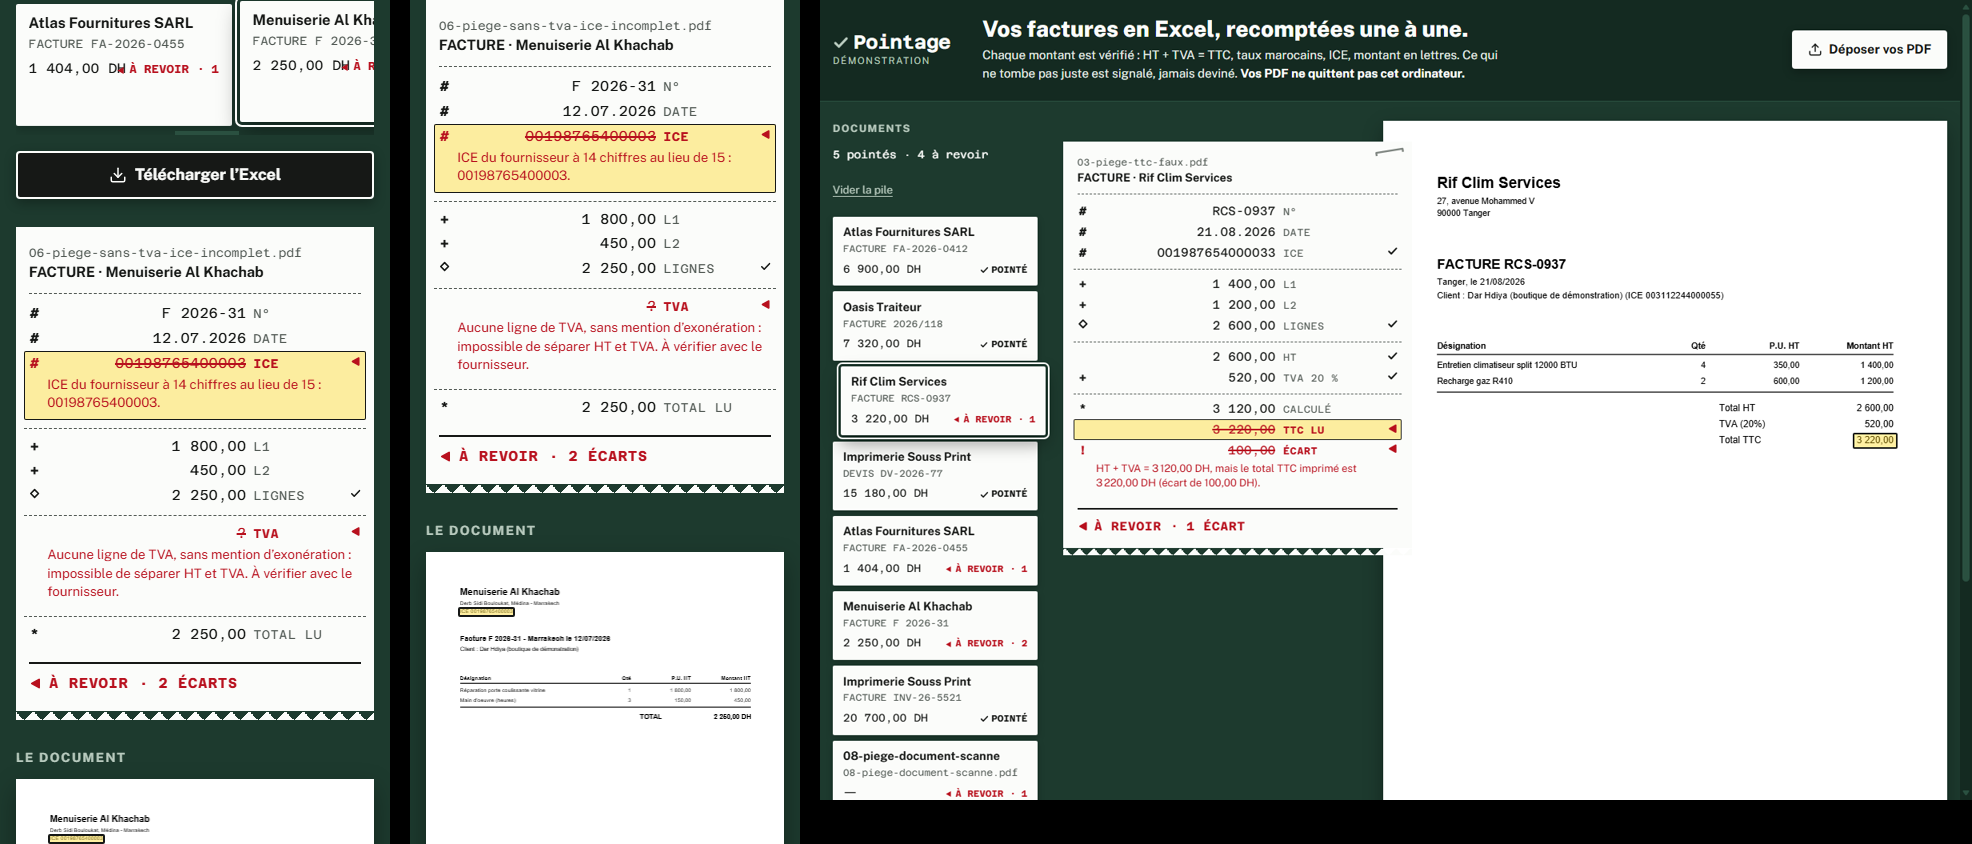
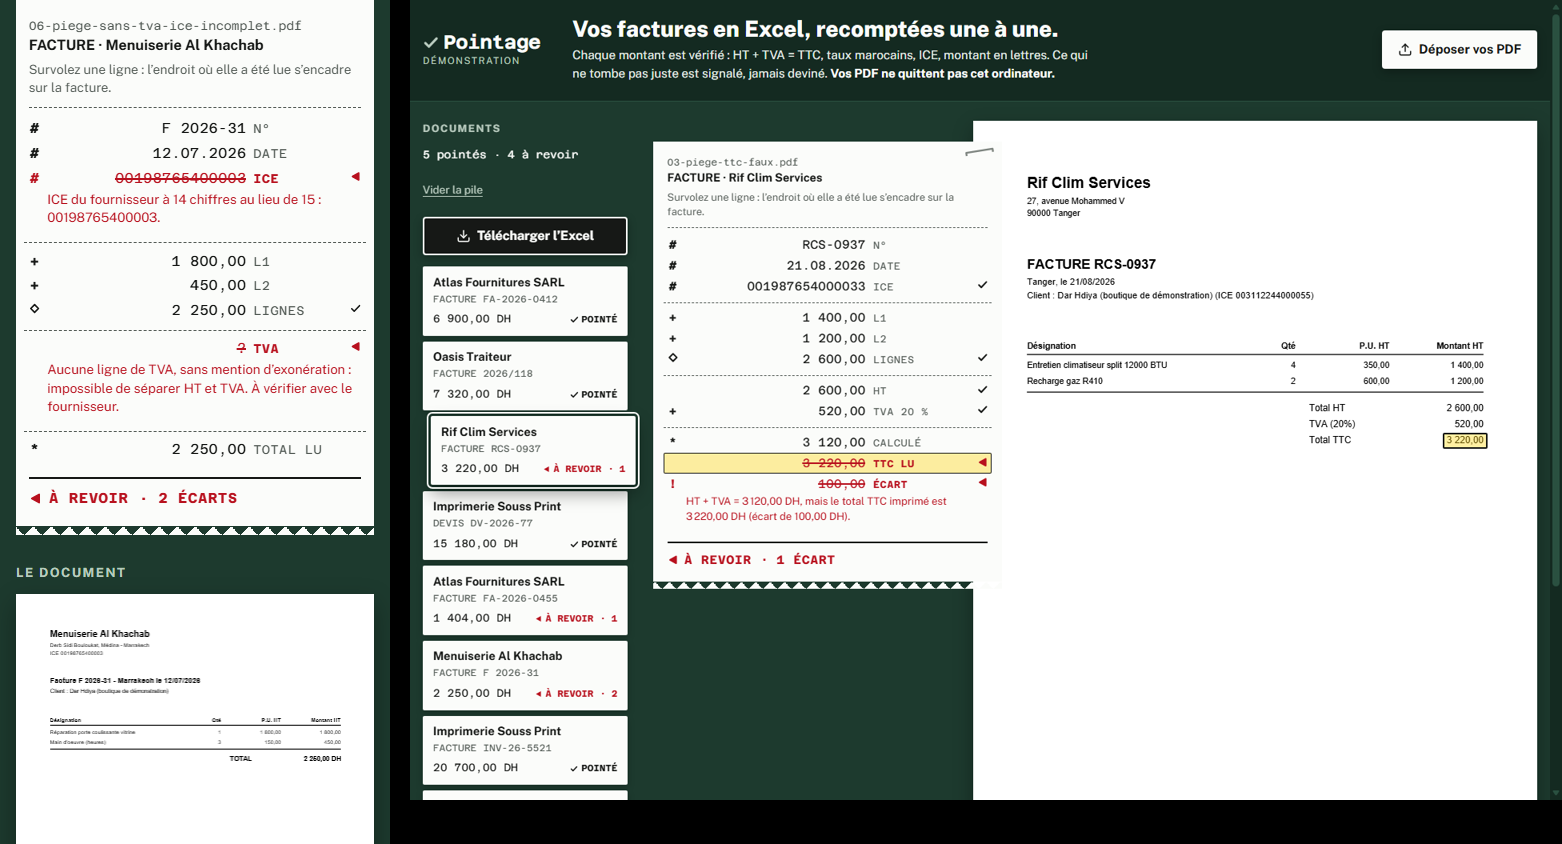
Pointage : explication du geste dans le ruban, export en haut de la pile, DESIGN.md et design.json
Claude-Session: https://claude.ai/code/session_01GMgjfJ58DWP2XDSQsajVtH

diff --git a/src/main.ts b/src/main.ts
@@ -100,6 +100,10 @@ function rendreListe() {
 }
 
 // ---------------------------------------------------------------- le ruban
+// Le geste signature s'apprend dans l'en-tête du ruban, là où le regard arrive.
+const AIDE = matchMedia('(hover: none)').matches
+  ? 'Touchez une ligne : l’endroit où elle a été lue s’encadre sur la facture.'
+  : 'Survolez une ligne : l’endroit où elle a été lue s’encadre sur la facture.';
 let impression = 0;
 function rendreRuban(d: Doc) {
   const art = $('ruban');
@@ -112,6 +116,7 @@ function rendreRuban(d: Doc) {
     : l ? ruban(l) : [];
   const tete = el('header', 'ruban-tete');
   tete.append(el('p', 'ruban-fichier', d.fichier), el('p', 'ruban-type', l?.type ? `${l.type.toUpperCase()} · ${l.fournisseur ?? ''}` : ''));
+  if (lignes.some((x) => x.source)) tete.append(el('p', 'ruban-aide', AIDE));
   const corps = el('ol', 'ruban-lignes');
   const pied = el('footer', 'ruban-pied');
   const n = l?.alertes.length ?? 1;
@@ -278,7 +283,6 @@ addEventListener('resize', () => {
   clearTimeout(attente);
   attente = window.setTimeout(() => { const d = docs.find((x) => x.id === choisi); if (d && !d.erreur) { $('preuve').hidden = true; marquer(null); rendre(d, pageVue); } }, 200);
 });
-if (matchMedia('(hover: none)').matches) $('aide-doc').textContent = 'Touchez une ligne du ruban : l’endroit où elle a été lue s’encadre sur la facture.';
 rendreListe();
 
 // Lien direct pour un devis : ?exemples charge les 9 exemples ; &doc=3 ouvre le 3e ; &preuve=5 encadre la 5e ligne du ruban.

diff --git a/index.html b/index.html
@@ -38,11 +38,11 @@
             <p class="bilan" id="bilan" aria-live="polite"></p>
             <button class="lien-vider" type="button" id="vider" hidden>Vider la pile</button>
           </div>
-          <ol class="tickets" id="tickets"></ol>
-          <p class="vide" id="vide">Pile vide. Déposez vos PDF (ils restent sur cet ordinateur) ou rechargez les 9 exemples fictifs, dont 5 pièges.</p>
           <button class="btn btn-encre" type="button" id="exporter" hidden>
             <svg width="18" height="18" viewBox="0 0 24 24" fill="none" stroke="currentColor" stroke-width="2" stroke-linecap="round" stroke-linejoin="round" aria-hidden="true"><path d="M12 15V3"/><path d="m7 10 5 5 5-5"/><path d="M21 15v4a2 2 0 0 1-2 2H5a2 2 0 0 1-2-2v-4"/></svg>
             Télécharger l’Excel</button>
+          <ol class="tickets" id="tickets"></ol>
+          <p class="vide" id="vide">Pile vide. Déposez vos PDF (ils restent sur cet ordinateur) ou rechargez les 9 exemples fictifs, dont 5 pièges.</p>
         </section>
 
         <section class="poste" aria-label="Ruban du document">
@@ -59,7 +59,6 @@
             <div class="cadre-preuve" id="preuve" hidden></div>
           </div>
           <div class="pages" id="pages" hidden></div>
-          <p class="aide" id="aide-doc">Survolez une ligne du ruban : l’endroit où elle a été lue s’encadre sur la facture.</p>
         </section>
       </div>
       <div class="depot-plein" id="depot" hidden><p>Lâchez vos PDF : ils restent sur cet ordinateur.</p></div>

diff --git a/src/style.css b/src/style.css
@@ -55,7 +55,7 @@ a { color: inherit; text-underline-offset: 0.2em; }
 .btn-trait { background: transparent; color: var(--sur-vert); border-color: var(--sur-vert-doux); }
 .btn-trait:hover { background: var(--sous-main-clair); }
 /* l'action de sortie : encre pleine (le rouge est réservé aux écarts du ruban) */
-.btn-encre { background: var(--encre); color: var(--papier); border-color: var(--papier); width: 100%; margin-block-start: 1rem; box-shadow: 0 4px 12px rgb(0 0 0 / 0.3); }
+.btn-encre { background: var(--encre); color: var(--papier); border-color: var(--papier); width: 100%; margin-block-end: 0.9rem; box-shadow: 0 4px 12px rgb(0 0 0 / 0.3); }
 .btn-encre:hover { background: #000; }
 
 /* ---------------------------------------------------------------- bandeau */
@@ -139,6 +139,7 @@ h2 { margin: 0; font-size: 0.8rem; text-transform: uppercase; letter-spacing: 0.
 .ruban-tete p { margin: 0; }
 .ruban-fichier { font-size: 0.75rem; color: var(--encre-pale); overflow-wrap: anywhere; }
 .ruban-type { font-family: var(--f-texte); font-weight: 700; font-size: 0.9rem; }
+.ruban-aide { font-family: var(--f-texte); font-size: 0.8rem; color: var(--encre-pale); margin-block-start: 0.3rem !important; }
 .ruban-lignes { list-style: none; margin: 0; padding: 0; }
 .ligne {
   display: grid; grid-template-columns: 1.4ch minmax(0, 1fr) 7.5rem 1.4ch; column-gap: 0.6rem; align-items: baseline;

diff --git a/DESIGN.md b/DESIGN.md
@@ -1,0 +1,188 @@
+---
+name: Pointage
+description: Vos factures en Excel, recomptées une à une — le ruban de calculatrice agrafé à la facture.
+colors:
+  sous-main: "#1d3a2e"
+  sous-main-fonce: "#142a21"
+  sous-main-clair: "#2a5040"
+  sur-vert: "#e6eee8"
+  sur-vert-doux: "#b9cbbf"
+  papier: "#fbfcfa"
+  papier-ombre: "#e9edea"
+  encre: "#161816"
+  encre-pale: "#535b56"
+  filet: "#cfd6d1"
+  rouge-ruban: "#b8111e"
+  surligneur: "rgb(255 214 10 / 0.38)"
+typography:
+  titre:
+    fontFamily: "Public Sans, system-ui, sans-serif"
+    fontSize: "clamp(1.35rem, 1.1rem + 0.8vw, 1.75rem)"
+    fontWeight: 800
+    lineHeight: 1.2
+  marque:
+    fontFamily: "Azeret Mono, ui-monospace, monospace"
+    fontSize: "1.5rem"
+    fontWeight: 700
+    lineHeight: 1
+    letterSpacing: "-0.02em"
+  ruban:
+    fontFamily: "Azeret Mono, ui-monospace, monospace"
+    fontSize: "0.95rem"
+    fontWeight: 400
+    lineHeight: 1.45
+  ruban-libelle:
+    fontFamily: "Azeret Mono, ui-monospace, monospace"
+    fontSize: "0.78rem"
+    letterSpacing: "0.04em"
+  texte:
+    fontFamily: "Public Sans, system-ui, sans-serif"
+    fontSize: "1rem"
+    fontWeight: 400
+    lineHeight: 1.5
+  etiquette:
+    fontFamily: "Public Sans, system-ui, sans-serif"
+    fontSize: "0.8rem"
+    fontWeight: 700
+    letterSpacing: "0.12em"
+rounded:
+  papier: "2px"
+  controle: "4px"
+spacing:
+  ligne-ruban: "0.12rem"
+  colonne: "2rem"
+  section: "1.75rem"
+components:
+  bouton-papier:
+    backgroundColor: "{colors.papier}"
+    textColor: "{colors.encre}"
+    rounded: "{rounded.controle}"
+    height: "48px"
+    padding: "0 1.1rem"
+  bouton-encre:
+    backgroundColor: "{colors.encre}"
+    textColor: "{colors.papier}"
+    rounded: "{rounded.controle}"
+    height: "48px"
+  bouton-trait:
+    textColor: "{colors.sur-vert}"
+    rounded: "{rounded.controle}"
+    height: "48px"
+  ticket:
+    backgroundColor: "{colors.papier}"
+    textColor: "{colors.encre}"
+    rounded: "{rounded.papier}"
+    padding: "0.65rem 0.8rem"
+  ruban:
+    backgroundColor: "{colors.papier}"
+    textColor: "{colors.encre}"
+    typography: "{typography.ruban}"
+    padding: "1.1rem 1.1rem 1.6rem"
+---
+
+# Design System: Pointage
+
+## Overview
+
+**Creative North Star : « le ruban agrafé à la facture ».** Le comptable vérifie une facture en la recomptant sur sa calculatrice imprimante, puis il agrafe le ticket à la facture : c'est la preuve qu'il a pointé. Pointage fait exactement ce geste, à l'écran. Chaque document lu imprime son ruban, ligne à ligne, avec la grammaire réelle de ces machines ; ce qui tombe juste porte un ✓, ce qui ne tombe pas juste s'imprime en rouge, barré, marqué ◄. Le PDF est posé sous le ruban, et toucher une ligne encadre sur la facture l'endroit où elle a été lue.
+
+Le monde refuse deux choses : l'outil en ligne générique (zone de dépôt pointillée, tableau gris, pastilles vert/rouge) et la reconstitution décorative (papier crème, biseaux, imitation de matière). Le papier thermique est lisse : il est rendu à plat.
+
+**Key Characteristics :**
+- Fond engagé : le sous-main vert bouteille couvre la page ; le papier ne sert qu'aux objets (ruban, tickets, facture, boutons).
+- Une seule taille de chiffres sur le ruban (Azeret Mono 0,95 rem) ; le rang passe par la graisse, les capitales et la grammaire des symboles.
+- Le rouge est l'encre du ruban bicolore : il ne marque que les écarts.
+- Le ruban chevauche le bord de la facture et passe au-dessus d'elle : ils forment un seul objet.
+
+## Colors
+
+Une couleur engagée (le sous-main), une matière (le papier thermique) et deux encres de ruban.
+
+### Primary
+- **Sous-main** (sous-main, sous-main-fonce, sous-main-clair) : fond de page, bandeau et pied (fonce), filets et survols (clair). Texte dessus : sur-vert (10,5:1) et sur-vert-doux (7,3:1).
+
+### Secondary
+- **Papier thermique** (papier) : blanc froid, jamais crème ; ruban, tickets, feuille du PDF, boutons papier. Encre dessus : 17,4:1 ; encre pâle : 6,8:1.
+
+### Tertiary
+- **Rouge de ruban** (rouge-ruban) : écarts seulement (montant barré, ◄, note, verdict « À revoir »). 6,5:1 sur le papier.
+- **Surligneur** (surligneur, jaune translucide) : la preuve — ligne du ruban montrée et cadre posé sur le PDF. Jamais un fond de bouton.
+
+### Neutral
+- **Encre** (encre) : chiffres, texte sur papier, bouton d'export plein.
+- **Encre pâle** (encre-pale) : libellés du ruban, nom de fichier, aides sur papier.
+- **Filet** (filet) : réservé ; les séparations du ruban sont des tirets imprimés en encre pâle.
+
+### Named Rules
+**The Ribbon-Red Rule.** Le rouge ne veut dire qu'une chose : « ça ne tombe pas juste ». Aucun bouton, aucun décor n'est rouge. L'action de sortie (Télécharger l'Excel) est en encre pleine.
+**The No-Colour-Alone Rule.** Un écart se lit sans la couleur : il est aussi barré et marqué ◄ (repris de la discipline « un conflit se voit sans couleur »).
+
+## Typography
+
+**Chiffres :** Azeret Mono (ruban, tickets, bilan, marque). **Interface :** Public Sans. Les deux sont hébergées sur le site (OFL, `public/polices/`) : aucune requête vers un tiers, comme les PDF.
+
+### Hierarchy
+- **Titre** (Public Sans 800, clamp 1,35–1,75 rem) : la promesse du bandeau, une seule fois.
+- **Marque** (Azeret Mono 700, 1,5 rem) : « Pointage », précédée de la coche dessinée.
+- **Ruban** (Azeret Mono 400, 0,95 rem, interligne 1,45) : tous les montants, une seule taille.
+- **Libellé de ruban** (Azeret Mono 0,78 rem, espacement 0,04 em, capitales) : N°, DATE, HT, TVA 20 %…
+- **Étiquette** (Public Sans 700, 0,8 rem, capitales, espacement 0,12 em) : titres de colonnes sur le vert.
+- **Texte** (Public Sans 400, 1 rem) : notes d'écart (0,82 rem), aides, pied.
+
+### Named Rules
+**The One-Figure-Size Rule.** Sur le ruban, aucun montant n'est plus gros qu'un autre : le total se distingue par `*`, le filet et sa place, pas par la taille.
+**The Drawn-Marks Rule.** ✓ ◄ ◇ ne sont pas dans les polices : ils sont dessinés en SVG d'un seul trait (2,2 sur une grille de 16), jamais laissés à une police système.
+
+## Layout
+
+Bureau (≥ 960 px) : trois colonnes sur le sous-main — la pile (15–18 rem, collante), le ruban (25 rem au plus) qui chevauche de 2,25 rem le bord gauche de la feuille et passe au-dessus, la feuille du PDF (le reste, collante). Le titre « Le document » est masqué visuellement sur bureau : la feuille est le dos du ruban. Mobile : bandeau, pile en bande défilante horizontale (cartes à 72 %), bouton d'export, ruban, puis la feuille toujours ouverte (la preuve doit rester visible quand on touche une ligne). Conteneur de 1400 px au plus, marges de 1 rem ; gouttière de 2 rem ; sections espacées de 1,75 rem.
+
+## Elevation & Depth
+
+Des objets posés sur un sous-main : le papier porte une ombre douce, rien ne flotte.
+
+### Shadow Vocabulary
+- **Papier posé** (`0 10px 24px rgb(0 0 0 / 0.32)`) : ruban et feuille.
+- **Ticket** (`0 1px 0 #e9edea, 0 4px 10px rgb(0 0 0 / 0.22)`) ; ticket choisi : `0 10px 22px rgb(0 0 0 / 0.4)`.
+- **Bouton papier / encre** (`0 4px 12px rgb(0 0 0 / 0.28–0.3)`).
+
+### Named Rules
+**The Soft-Lift Rule.** Aucune ombre dure sans flou : la profondeur est celle d'un papier sur un bureau.
+
+## Shapes
+
+Coins presque droits pour le papier (2 px), 4 px pour les contrôles. Le bas du ruban est déchiré en dents de scie (masque CSS, dents de 9 px). L'agrafe est un trait plat (SVG, gris #7d847f, 3 px), inclinée de −9°, au coin du ruban.
+
+## Components
+
+### Buttons
+- **Papier** (Déposer vos PDF) : papier, encre, 48 px, ombre douce ; blanc pur au survol, enfoncement de 1 px au clic.
+- **Encre** (Télécharger l'Excel) : encre pleine, texte papier, bord papier ; en haut de la pile, pleine largeur.
+- **Trait** (Recharger les exemples) : transparent, bord sur-vert-doux, fond sous-main-clair au survol.
+- **Focus** : anneau surligneur jaune de 3 px, décalé de 2 px, partout.
+
+### Ticket (la pile)
+Papier, quatre informations sans troncature du numéro : fournisseur (2 lignes au plus), type et numéro (entier), total, état (« ✓ Pointé » en encre ou « ◄ À revoir · n » en rouge). Choisi : il sort de la pile (10 px), ombre plus profonde, contour papier de 2 px décalé de 3 px.
+
+### Le ruban (Signature Component)
+En-tête : nom du fichier, type et fournisseur, puis l'aide du geste (« Survolez / Touchez une ligne… »). Lignes en grille `symbole | montant (aligné à droite) | libellé | marque`, séparées par des tirets imprimés : `#` numéro, date, ICE (non additionnés) ; `+` lignes du tableau ; `◇` sous-total des lignes ; `−` remise ; HT ; `+` TVA par taux ; `*` calculé ; TTC lu ; `=` montant en lettres. Un écart : montant barré, libellé et marque ◄ en rouge, note explicative dessous. Pied : verdict « ✓ POINTÉ · TOUT TOMBE JUSTE » ou « ◄ À REVOIR · n ÉCARTS ». Impression ligne à ligne (70 ms, avance du papier par clip-path), verdict en dernier ; désactivée si l'utilisateur réduit les animations.
+
+### La preuve
+Survoler, toucher ou atteindre au clavier une ligne : la ligne garde le surligneur et un contour d'encre de 1 px, et un cadre surligneur (bord encre 2 px) se pose sur la position lue dans le PDF, avec un éclair de 500 ms. Le cadre change de page si besoin.
+
+## Do's and Don'ts
+
+### Do:
+- **Do** garder le sous-main vert sur toute la page et le papier pour les objets seulement.
+- **Do** imprimer chaque contrôle comme une ligne de ruban avec son symbole de machine.
+- **Do** marquer un écart trois fois : rouge, barré, ◄ — et l'expliquer en une phrase.
+- **Do** relier chaque valeur à sa source dans le PDF.
+- **Do** héberger les polices et tout le code sur le site : rien ne part vers un tiers.
+
+### Don't:
+- **Don't** utiliser le rouge pour une action ou un décor.
+- **Don't** passer en papier crème, ni imiter une matière (biseau, embossage, texture de papier).
+- **Don't** grossir le total du ruban : une seule taille de chiffres.
+- **Don't** tronquer un numéro de facture ou un montant.
+- **Don't** laisser ✓ ◄ ◇ en texte : ils tombent sur une police système.
+- **Don't** afficher un client, un volume traité ou un avis : l'outil est une démonstration.
